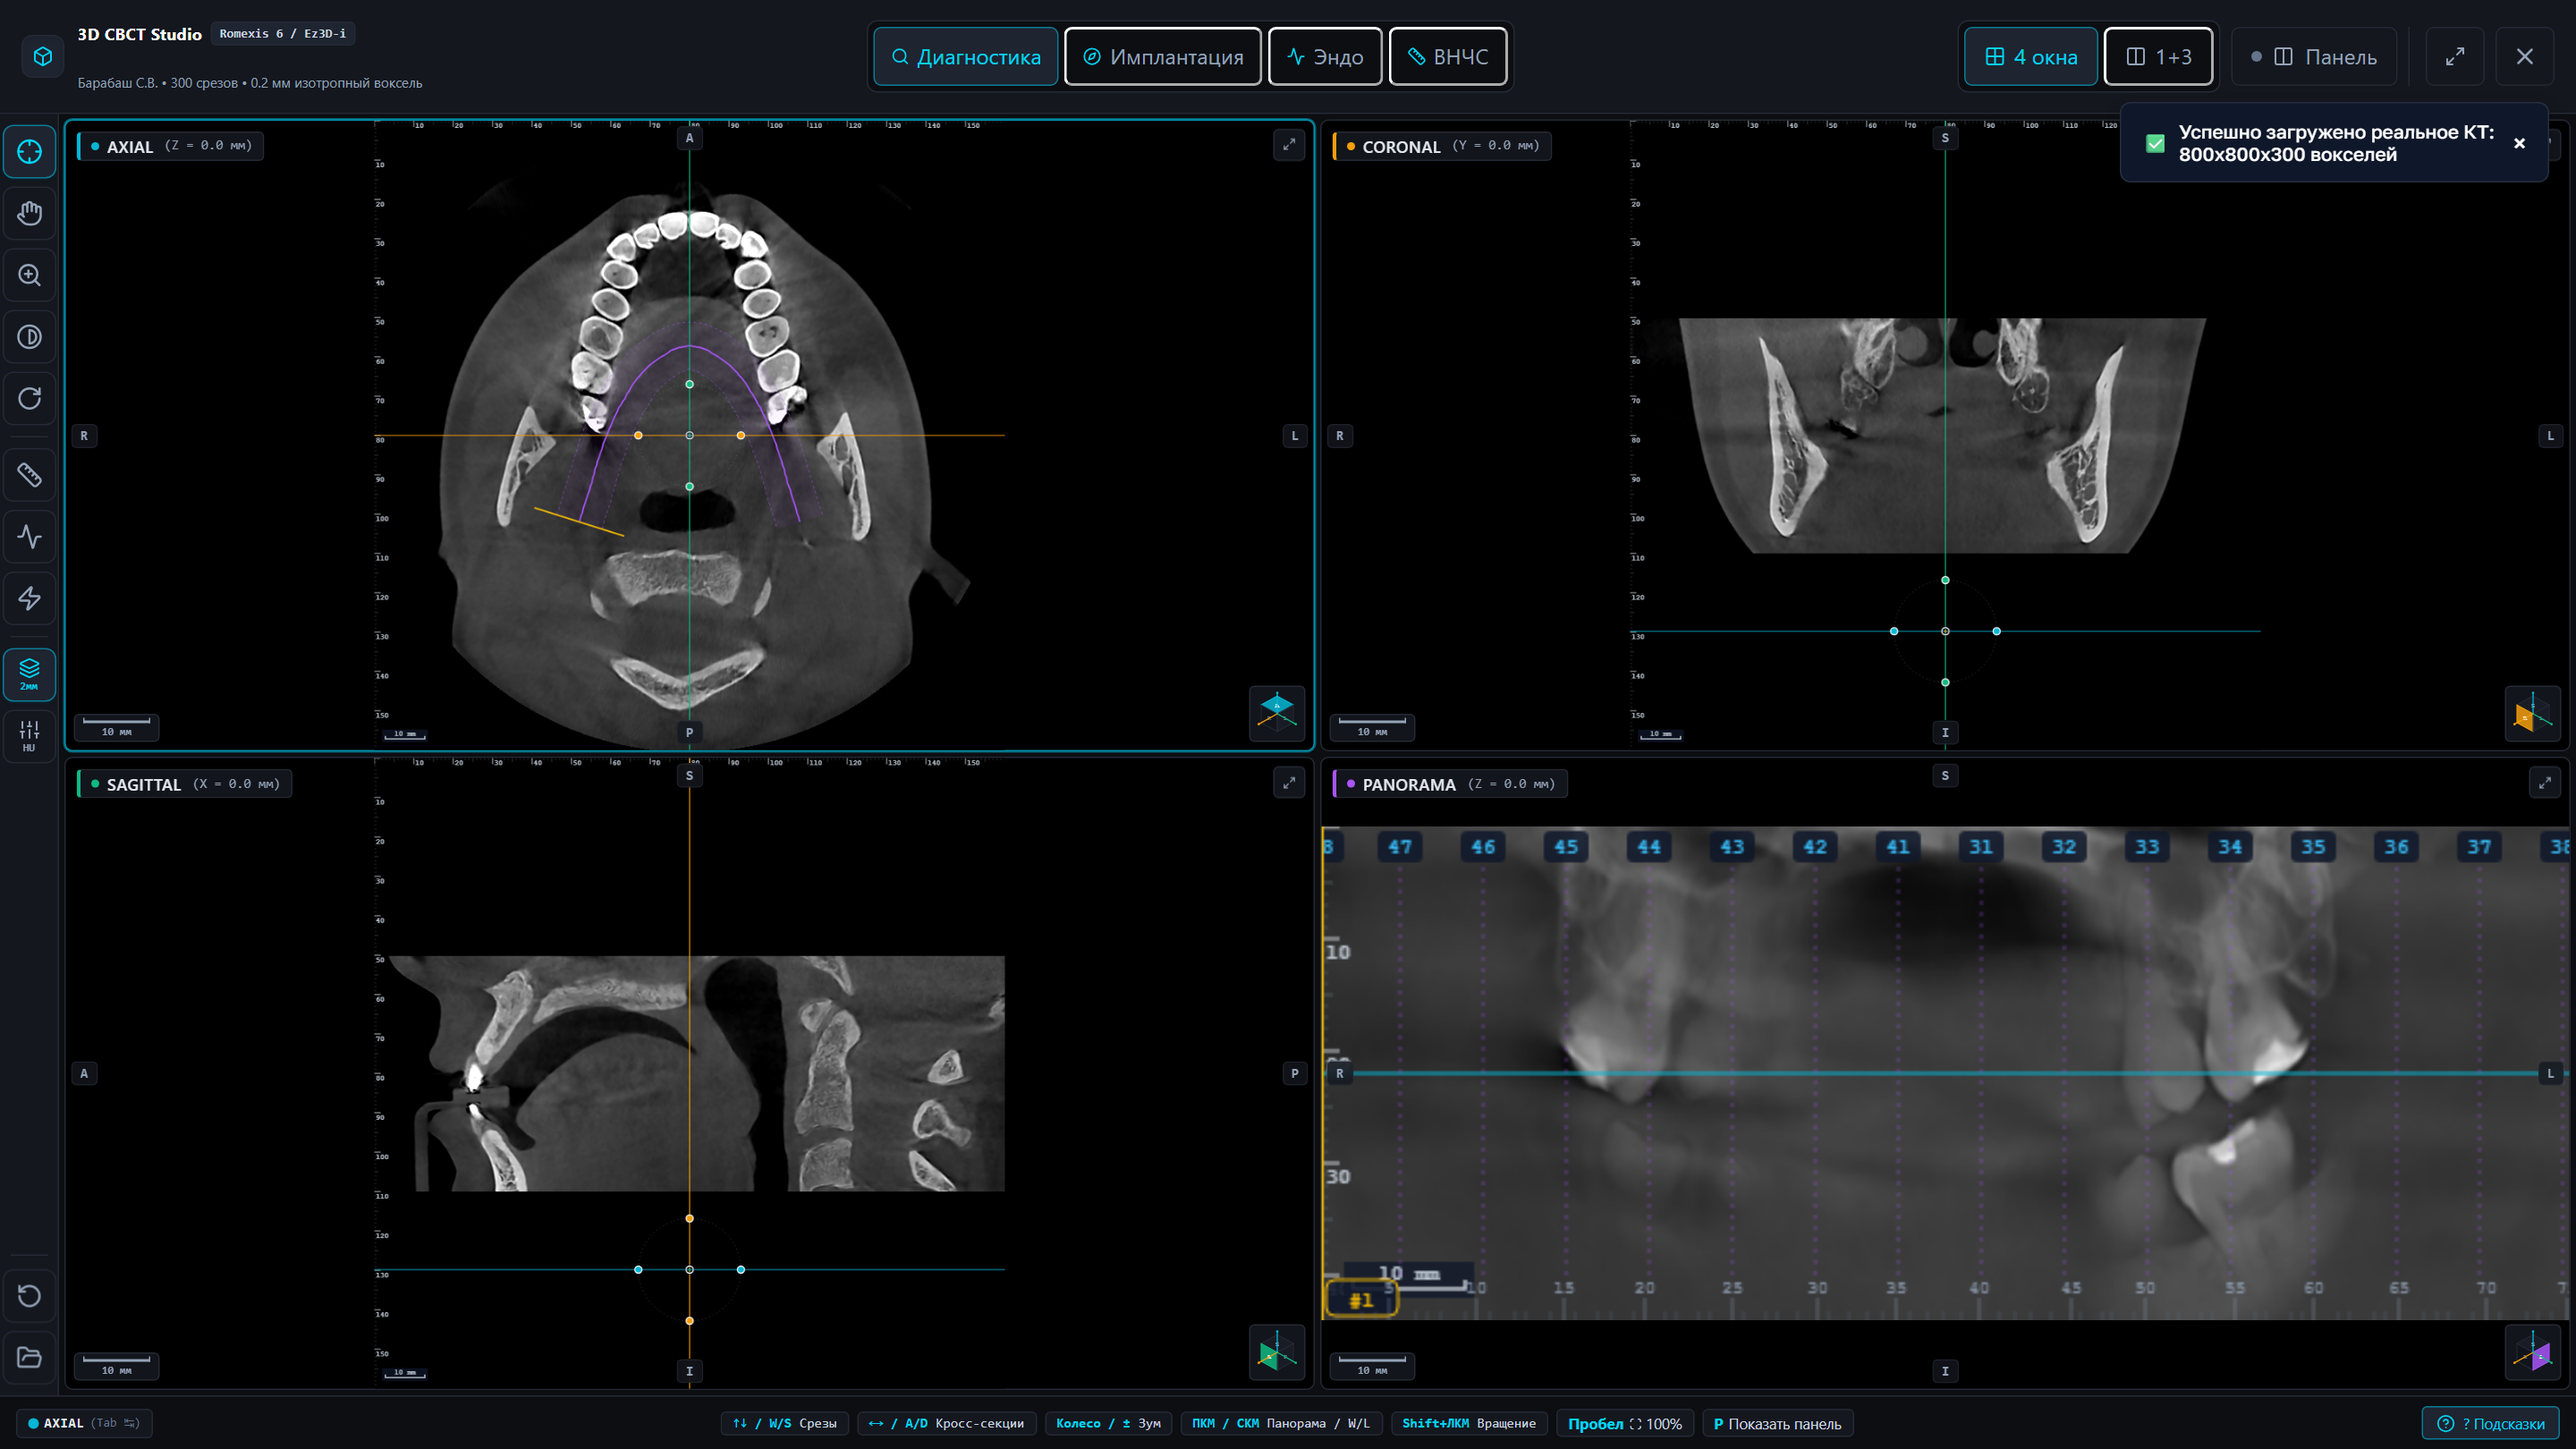
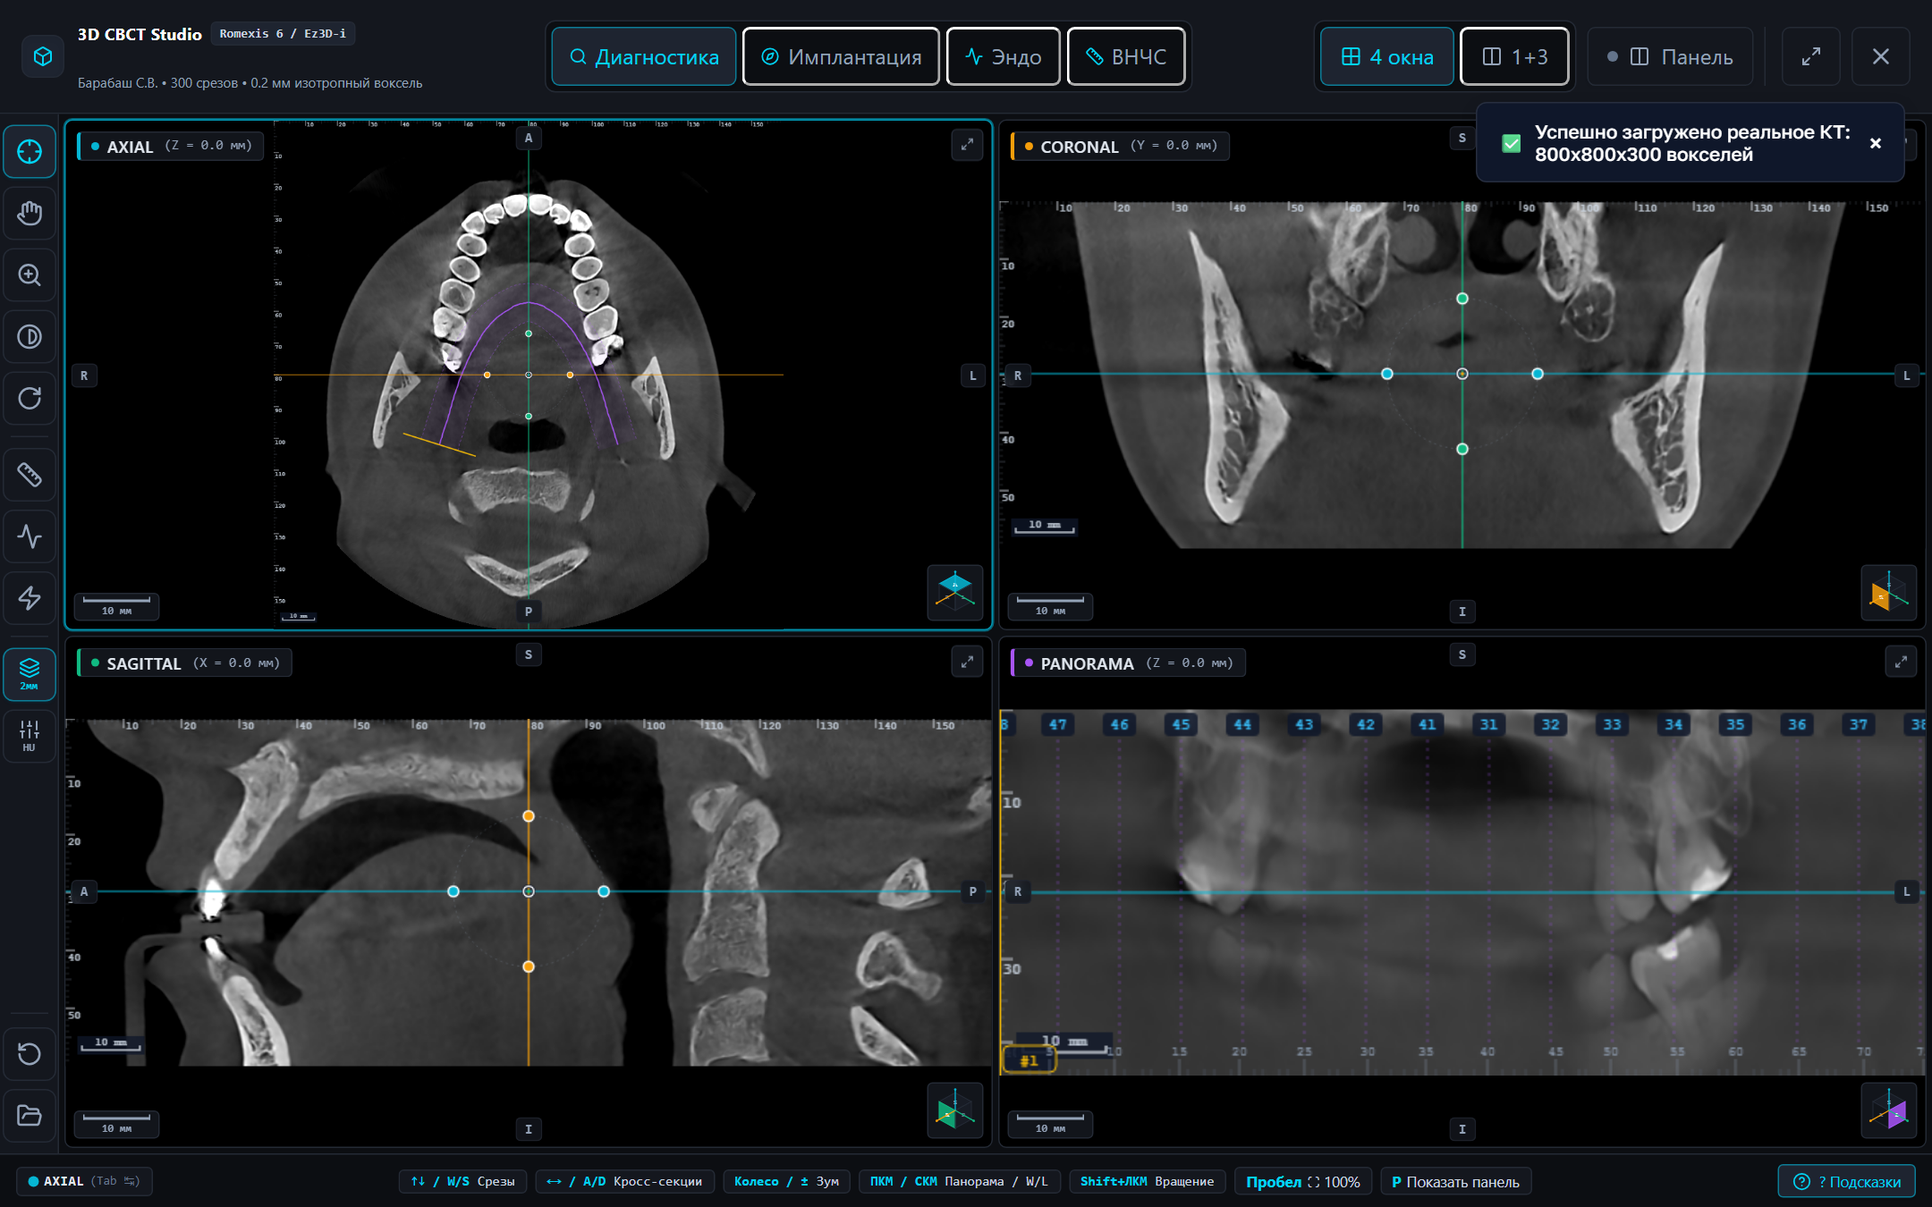
fix(radiology): calibrate CBCT Coronal and Sagittal physical Z-scale and reticle alignment
- Remove artificial Math.max(dim.width, ...) constraint in cbctObliqueMath.ts to render Coronal and Sagittal views at exact physical Z-depth (dim.depth * sp.z / sp.x) without 500px black void padding.
- Align pixelSpacingY to sp.z and calibrate canvas object-contain scaling so anatomy expands to fill the full viewport tile cleanly.
- Align Coronal and Sagittal reticle crosshairs and slab corridors precisely with anatomical occlusal and profile centers.
- Update cbctObliqueRotation test assertions for true physical slice dimensions.

diff --git a/apps/web/src/components/radiology/__tests__/cbctObliqueRotation.test.ts b/apps/web/src/components/radiology/__tests__/cbctObliqueRotation.test.ts
@@ -178,7 +178,7 @@ describe("CBCT Oblique MPR Rotation, Sub-Voxel Trilinear & Interactive Navigatio
 			});
 			assert.equal(coronal.metadata.plane, "coronal");
 			assert.equal(coronal.metadata.widthPx, testVolume.dimensions.width);
-			assert.equal(coronal.metadata.heightPx, Math.max(testVolume.dimensions.width, testVolume.dimensions.depth));
+			assert.equal(coronal.metadata.heightPx, Math.round((testVolume.dimensions.depth * testVolume.spacingMm.z) / testVolume.spacingMm.x));
 
 			const sagittal = extractObliqueMprSlice(testVolume, "sagittal", { x: 0, y: 0, z: 0 }, {
 				axialAngleDeg: 0,
@@ -187,7 +187,7 @@ describe("CBCT Oblique MPR Rotation, Sub-Voxel Trilinear & Interactive Navigatio
 			});
 			assert.equal(sagittal.metadata.plane, "sagittal");
 			assert.equal(sagittal.metadata.widthPx, testVolume.dimensions.height);
-			assert.equal(sagittal.metadata.heightPx, Math.max(testVolume.dimensions.height, testVolume.dimensions.depth));
+			assert.equal(sagittal.metadata.heightPx, Math.round((testVolume.dimensions.depth * testVolume.spacingMm.z) / testVolume.spacingMm.y));
 		});
 
 		it("reslices all 3 oblique planes simultaneously in resliceObliqueMprSynchronized", () => {

diff --git a/apps/web/src/components/radiology/cbctObliqueMath.ts b/apps/web/src/components/radiology/cbctObliqueMath.ts
@@ -352,17 +352,17 @@ export function extractObliqueMprSlice(
 			break;
 		case "coronal":
 			widthPx = dim.width;
-			heightPx = Math.max(dim.width, Math.round((dim.depth * sp.z) / (sp.x || 1.0)));
+			heightPx = Math.max(1, Math.round((dim.depth * sp.z) / (sp.x || 1.0)));
 			pixelSpacingX = sp.x;
-			pixelSpacingY = sp.x;
+			pixelSpacingY = sp.z;
 			maxSliceIndex = dim.height - 1;
 			physicalPosMm = crosshairMm.y;
 			break;
 		case "sagittal":
 			widthPx = dim.height;
-			heightPx = Math.max(dim.height, Math.round((dim.depth * sp.z) / (sp.y || 1.0)));
+			heightPx = Math.max(1, Math.round((dim.depth * sp.z) / (sp.y || 1.0)));
 			pixelSpacingX = sp.y;
-			pixelSpacingY = sp.y;
+			pixelSpacingY = sp.z;
 			maxSliceIndex = dim.width - 1;
 			physicalPosMm = crosshairMm.x;
 			break;
